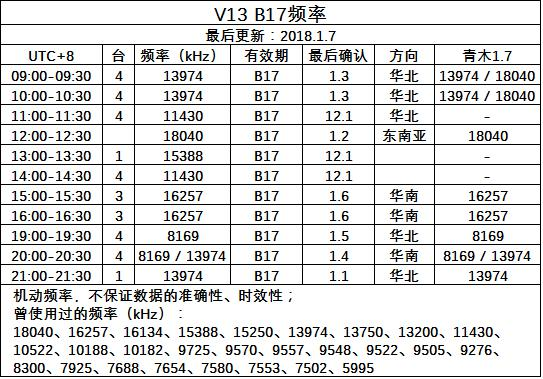
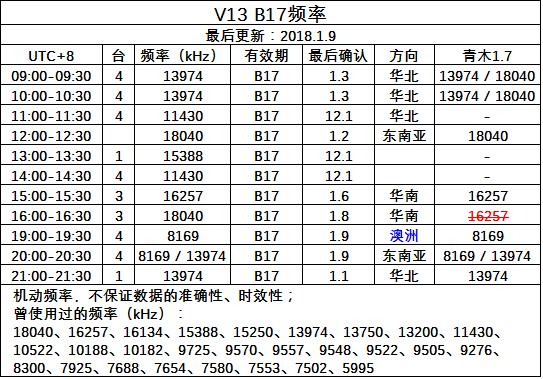
1.9更新

diff --git a/README.md b/README.md
@@ -9,7 +9,8 @@
 ```+Markdown
 git pull origin master
 <这里需要修改/添加文件，否则与原文件相比就没有变动>
+
 git add .
-git commit -a "第一次提交"   // 或git commit -am "第一次提交"
+git commit -am "第一次提交"
 git push origin master
   ```
